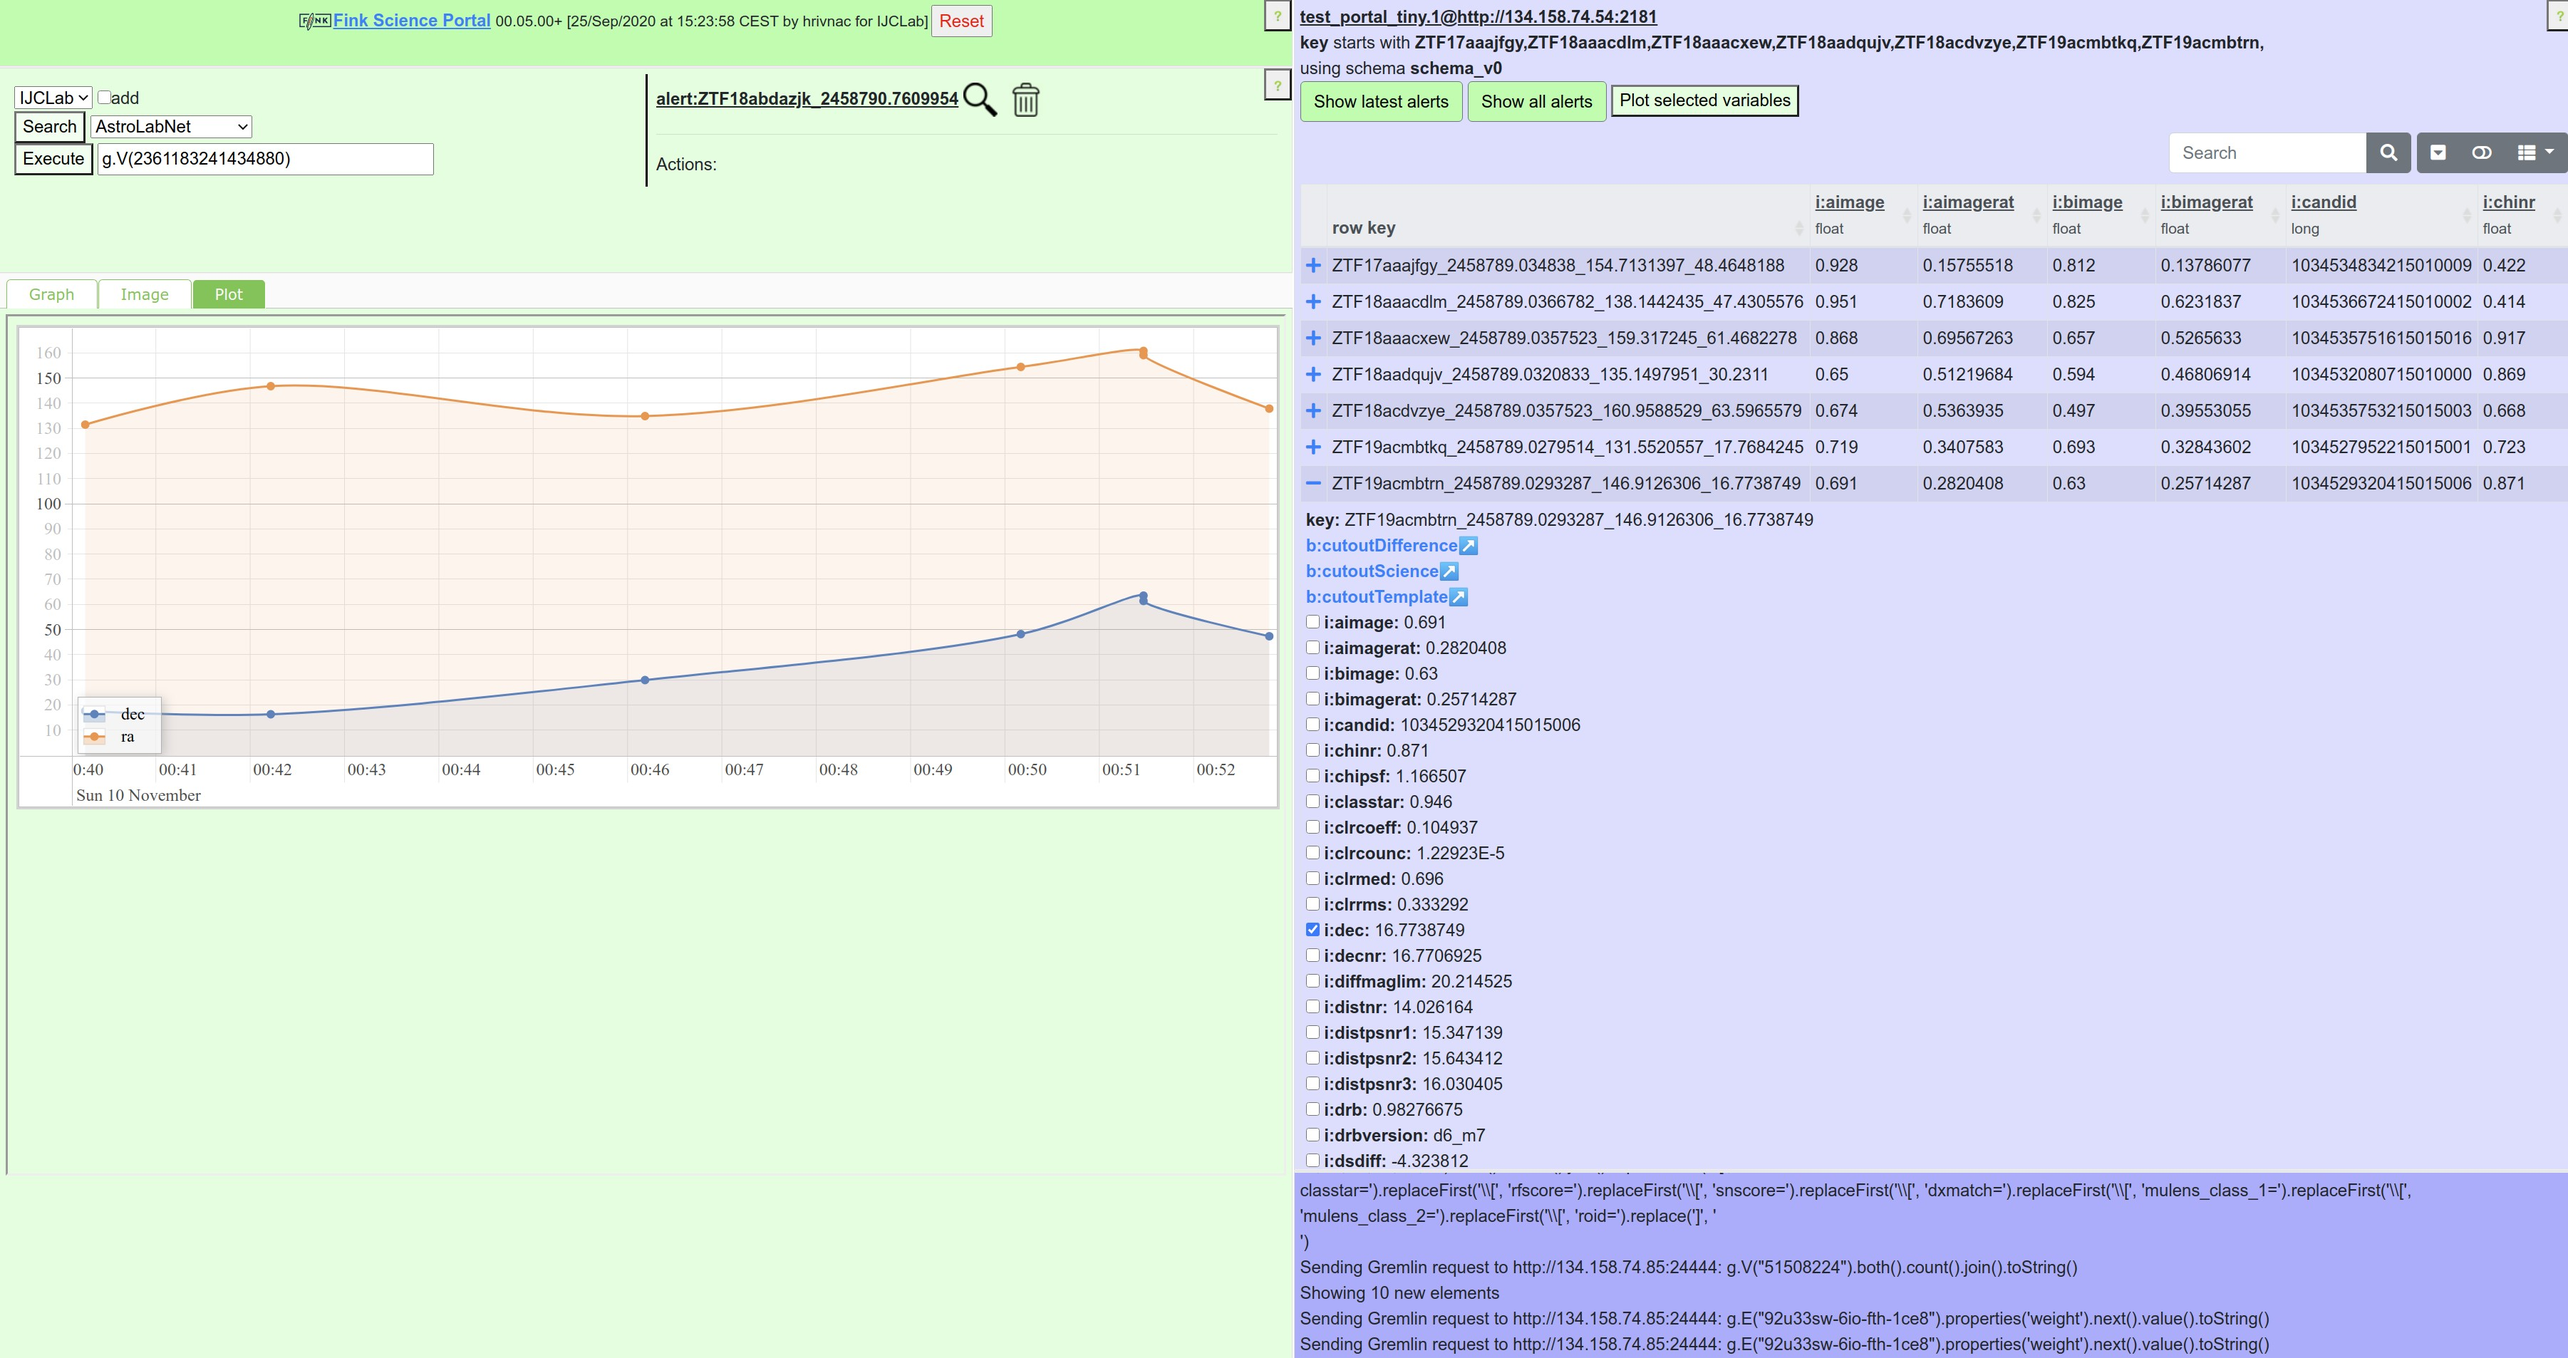
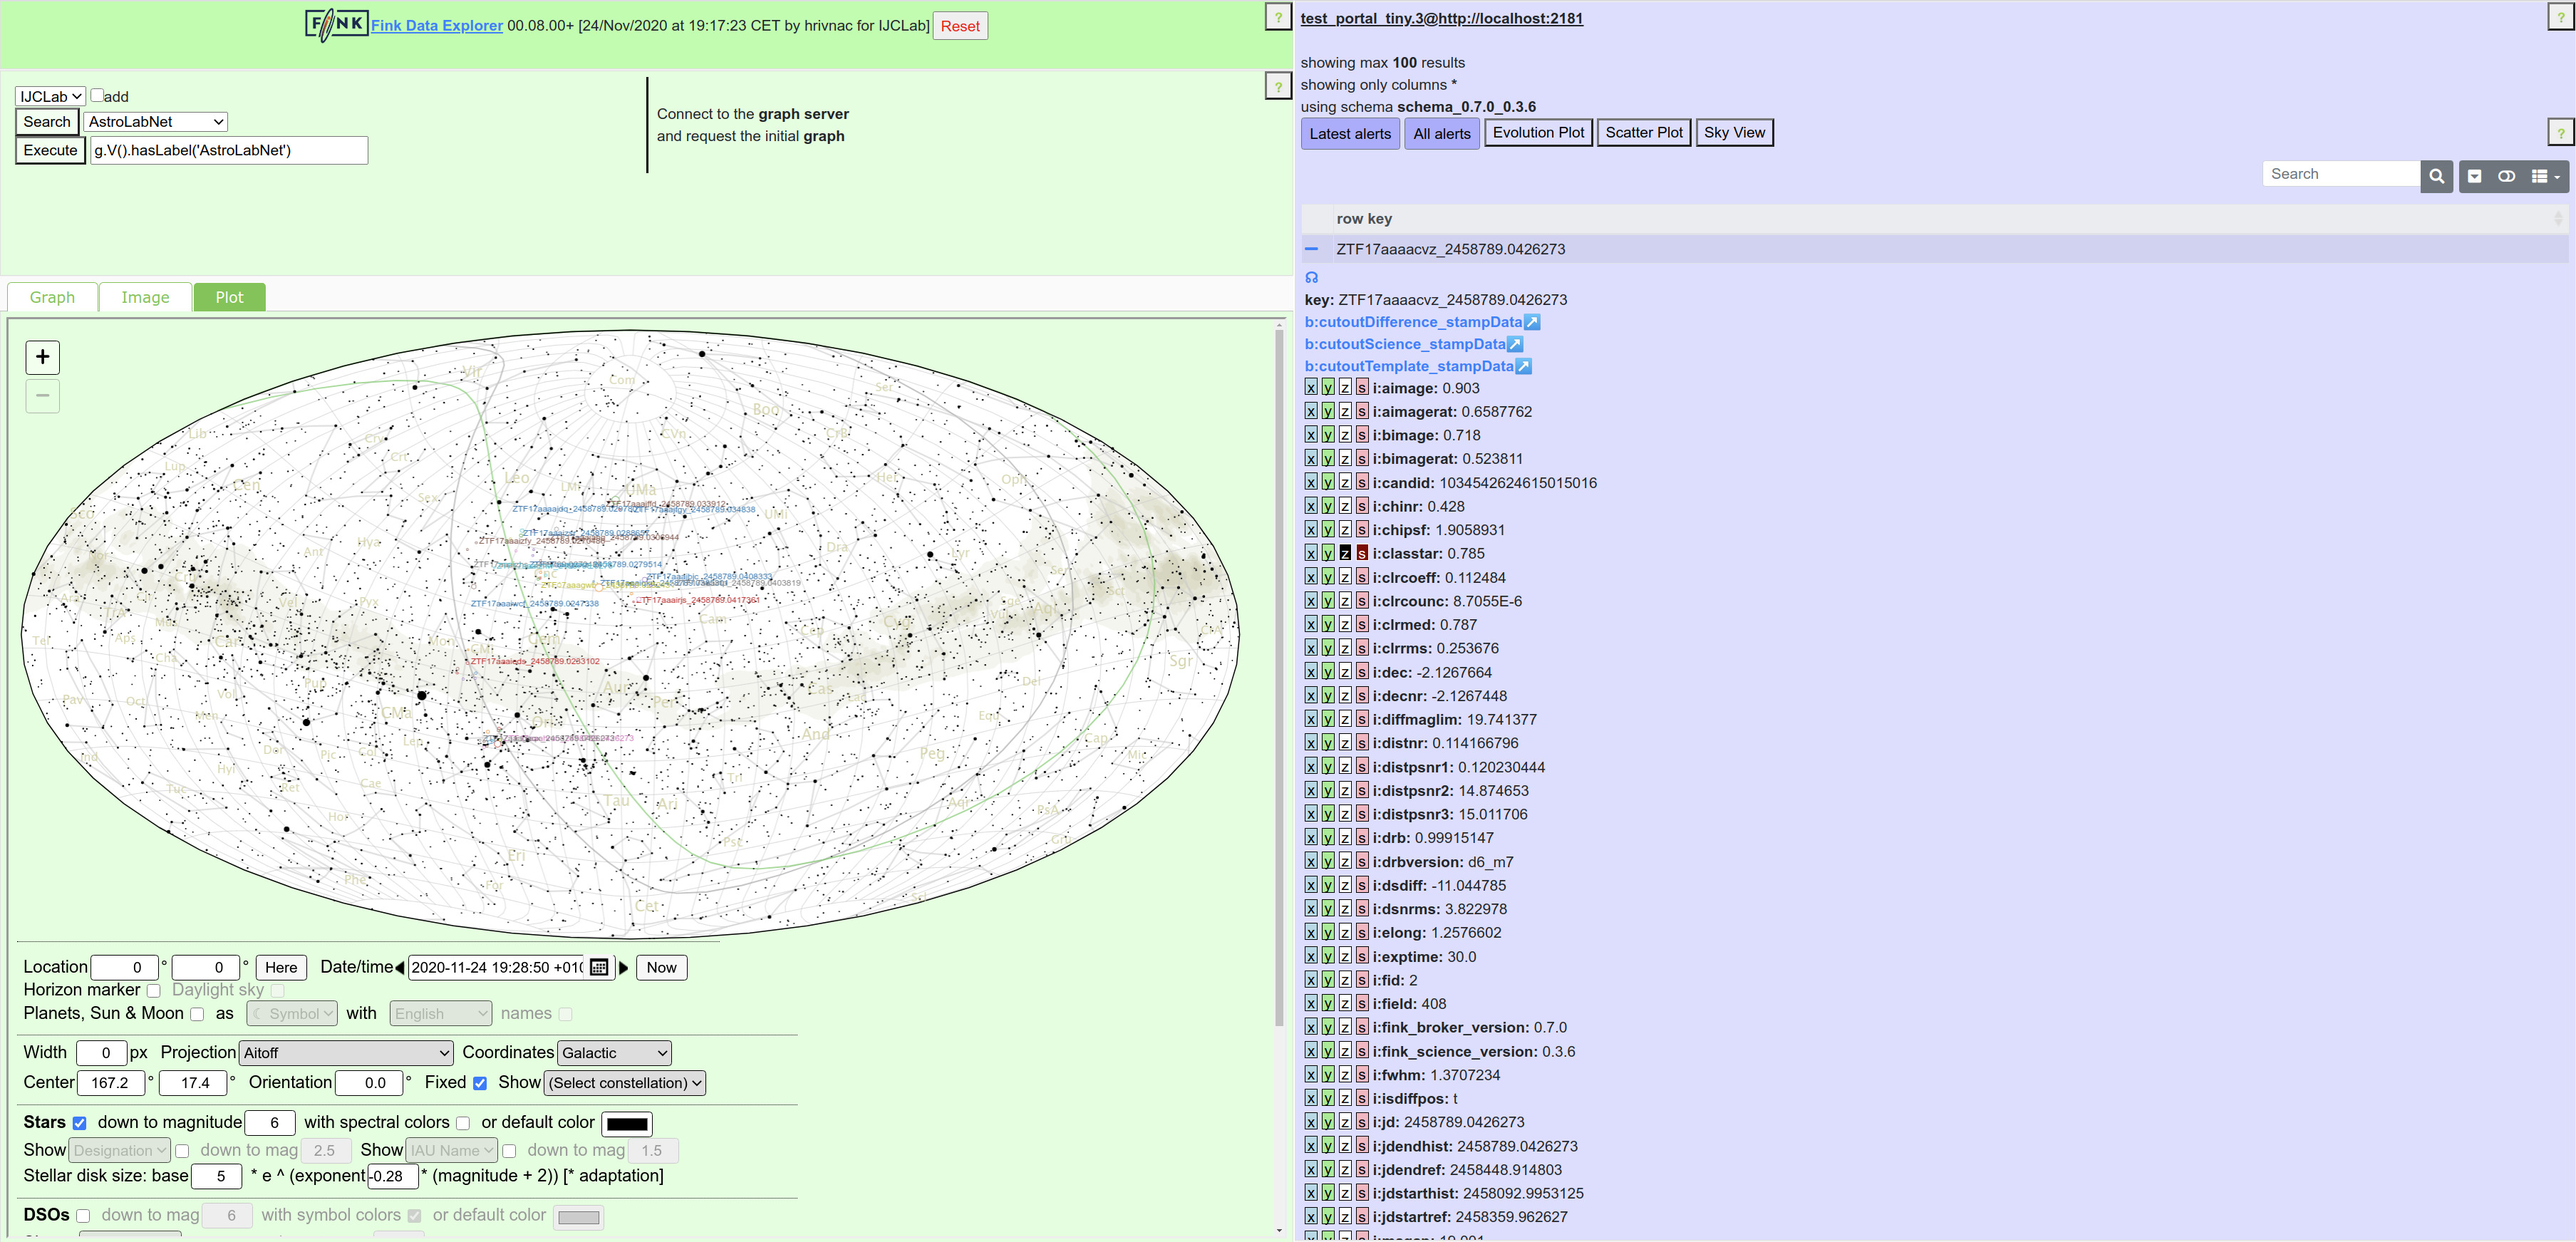
nicer sky view

Changed region(s): [[0.0, 0.0929, 1.0, 1.0], [0.0, 0.0, 0.8701, 0.1549], [0.9634, 0.0, 1.0, 0.031]]

diff --git a/src/index.html b/src/index.html
@@ -70,6 +70,7 @@ alert -exactmatch&gt; alert
 <tr><td><a href="FinkBrowser.jpg" ><img src="FinkBrowser.jpg"  width="600"></a></td></tr>
 <tr><td><a href="FinkBrowser1.jpg"><img src="FinkBrowser1.jpg" width="600"></a></td></tr>
 <tr><td><a href="FinkBrowser2.jpg"><img src="FinkBrowser2.jpg" width="600"></a></td></tr>
+<tr><td><a href="FinkBrowser3.jpg"><img src="FinkBrowser3.jpg" width="600"></a></td></tr>
 </table>
 <b><u>Customisation</u></b>
 <ul>

diff --git a/src/java/com/astrolabsoftware/FinkBrowser/WebService/FinkHBaseColumnsProcessor.java b/src/java/com/astrolabsoftware/FinkBrowser/WebService/FinkHBaseColumnsProcessor.java
@@ -36,6 +36,16 @@ public class FinkHBaseColumnsProcessor extends HBaseColumnsProcessor {
     return DateTimeManagement.julianDate2String(Double.valueOf(days), "yyyy MM dd HH:mm:ss.SSS");
     }
 
+  @Override
+  public String ra() {
+    return "i:ra";
+    }
+    
+  @Override
+  public String dec() {
+    return "i:dec";
+    }
+
   /** Logging . */
   private static Logger log = Logger.getLogger(FinkHBaseColumnsProcessor.class);
 
